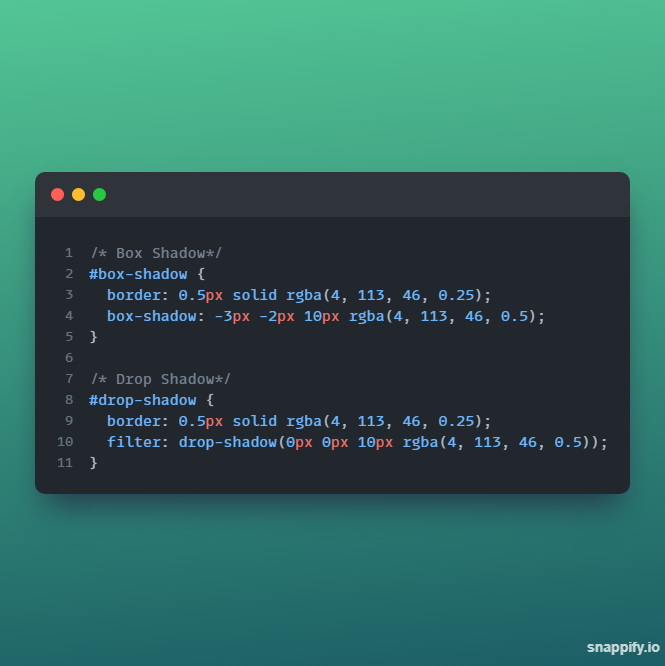
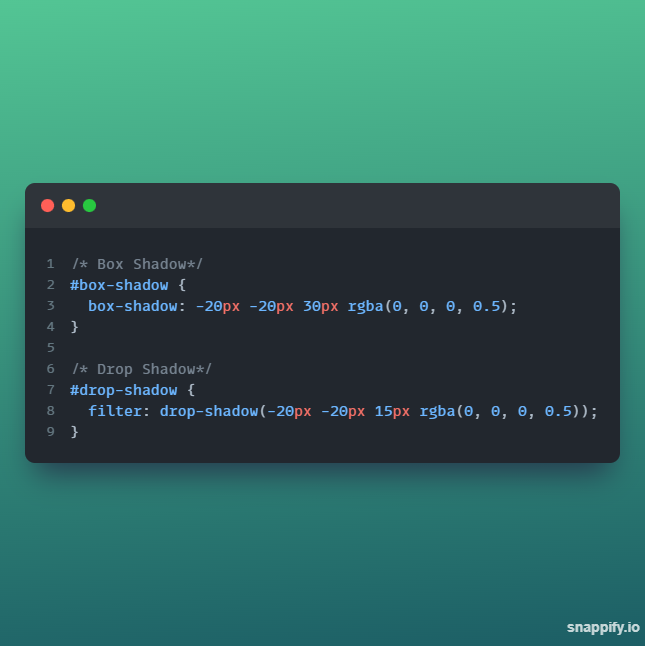
update images

Changed region(s): [[0.031, 0.2477, 0.9612, 0.774], [0.093, 0.3715, 0.8062, 0.5263], [0.8682, 0.9598, 0.9922, 0.9907]]

diff --git a/index.html b/index.html
@@ -28,16 +28,15 @@
     }
     
     #box-shadow {
-      border: 0.5px solid rgba(4, 113, 46, 0.25);
-      box-shadow: -3px -2px 10px rgba(4, 113, 46, 0.5);
+      box-shadow: -20px -20px 30px rgba(0, 0, 0, 0.5);
     }
 
     #drop-shadow {
-      border: 0.5px solid rgba(4, 113, 46, 0.25);
-      filter: drop-shadow(0px 0px 10px rgba(4, 113, 46, 0.5));
+      filter: drop-shadow(-20px -20px 15px rgba(0, 0, 0, 0.5));
     }
 
     .desc {
+      text-align: center;
       color: rgba(0, 0, 0, 0.6);
       margin: 0px;
       font-family: Georgia, 'Times New Roman', Times, serif;
@@ -48,12 +47,12 @@
 <body>
   <main>
     <article>
-      <img src="./image.png" alt="" class="treeImage" id="box-shadow" />
+      <img src="./image1.png" alt="" class="treeImage" id="box-shadow" />
       <h3>Box Shadow</h3>
       <p class="desc">Adds shadow effects around image's frame</p>
     </article>
     <article>
-      <img src="./image.png" alt="" class="treeImage" id="drop-shadow" />
+      <img src="./image1.png" alt="" class="treeImage" id="drop-shadow" />
       <h3>Drop Shadow</h3>
       <p class="desc">Applies a drop shadow effect to the input image</p>
     </article>
